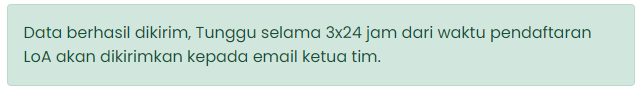
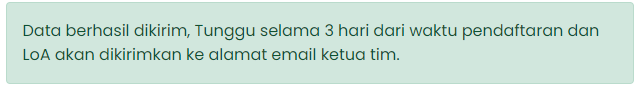
ubah

diff --git a/International-Participant.html b/International-Participant.html
@@ -41,7 +41,9 @@
         <p>1.&nbsp; &nbsp; Please fill in the required data correctly and make sure there are no writing errors. Please also make sure that the data submitted is fixed and there will be no changes.</p>
         <p>2.&nbsp; &nbsp;After making sure the data is correct, you can click send. If we have received your data, there will be a green notification as follows above the submit button : </p>
         <img class="con" src="../../Capture.PNG" alt="">
-        <p>3.&nbsp; &nbsp;Wait a while for a registration confirmation email to be sent to the team leader email you wrote.</p>
+        <p>3.&nbsp; &nbsp;Data has been successfully submitted registration data will be sent to the team leader's email address, and the file will be validated by our team. 
+          Please be patient and wait up to 3 days after the registration time. Letter of Acceptance (LOA) will be sent to the team leader's email address.
+          </p>
         <form name="#">
           
           <div class="user-details">
@@ -496,7 +498,7 @@
       fetch(scriptURL, { method: 'POST', body: new FormData(form) })
         .then((response) =>
           $('#form_alerts').html(
-            "<div class='alert alert-success'>Data sent successfully, Wait for 3 days from the time of registration LoA will be sent to the team leader's email.</div>"
+            "<div class='alert alert-success'>Data sent successfully, Wait for 3 days from the time of registration and the LoA will be sent to the team leader email address.</div>"
           )
         )
         .catch((error) =>

diff --git a/Indonesian-Participant.html b/Indonesian-Participant.html
@@ -42,7 +42,8 @@
         <p>2.&nbsp; &nbsp;Setelah memastikan data sudah benar, Anda dapat mengklik tombol "Kirim". Jika kami telah menerima data Anda, akan ada notifikasi berwarna hijau di sebelah tombol "Kirim". </p>
         <img class="con" src="../../1.PNG" alt="">
         <p>3.&nbsp; &nbsp;Notifikasi:
-          Data telah berhasil terkirim data registrasi akan dikirimkan kepada leader email,  dan berkas akan divalidasi oleh tim kami. Mohon bersabar dan tunggu hingga 3 hari setelah waktu pendaftaran. Surat Penerimaan (LOA) akan kami kirimkan ke alamat ketua tim. </p>
+          Data telah berhasil terkirim data registrasi akan dikirimkan ke alamat email ketua tim,  dan berkas akan divalidasi oleh tim kami. 
+Mohon bersabar dan tunggu hingga 3 hari setelah waktu pendaftaran. Surat Penerimaan (LOA) akan kami kirimkan ke alamat email ketua tim.</p>
         <form name="#">
           
           <div class="user-details">
@@ -511,7 +512,7 @@
       fetch(scriptURL, { method: 'POST', body: new FormData(form) })
         .then((response) =>
           $('#form_alerts').html(
-            "<div class='alert alert-success'>Data berhasil dikirim, Tunggu selama 3 hari dari waktu pendaftaran LoA akan dikirimkan kepada email ketua tim.</div>"
+            "<div class='alert alert-success'>Data berhasil dikirim, Tunggu selama 3 hari dari waktu pendaftaran dan LoA akan dikirimkan ke alamat email ketua tim.</div>"
           )
         )
         .catch((error) =>
